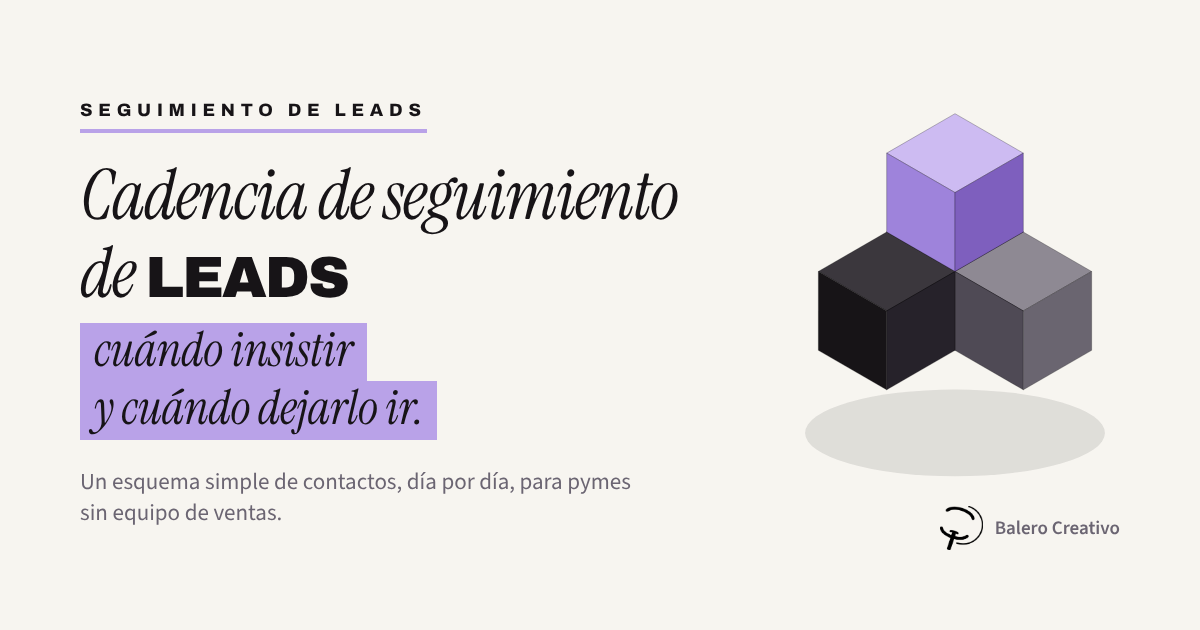
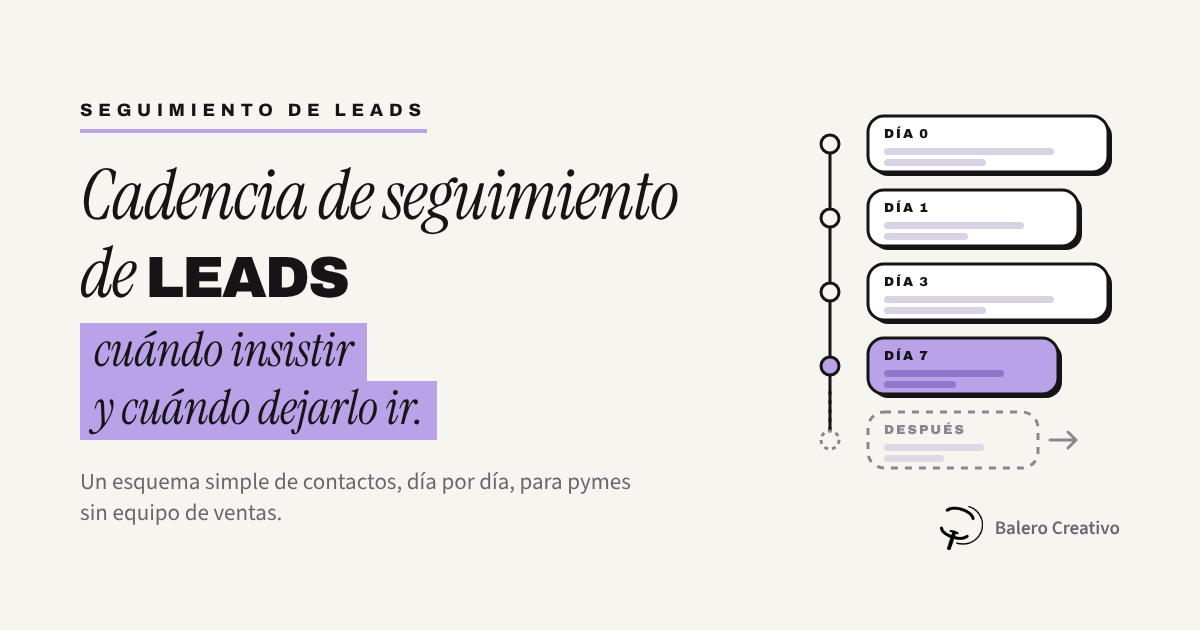
Replace cubes with message timeline in cadence header image
Claude-Session: https://claude.ai/code/session_01NTbbmrkatfc9dT5fY1rn6A

diff --git a/blog-images/leads-whatsapp-cadencia-destacada.html b/blog-images/leads-whatsapp-cadencia-destacada.html
@@ -37,37 +37,41 @@
     </h1>
     <p class="sub">Un esquema simple de contactos, día por día, para pymes sin equipo de ventas.</p>
   </div>
-  <svg id="blocks" viewBox="0 0 330 370"></svg>
+  <svg id="blocks" viewBox="0 0 330 370" xmlns="http://www.w3.org/2000/svg">
+<line x1="40" y1="34.0" x2="40" y2="330.0" stroke="#171417" stroke-width="3" stroke-linecap="round" stroke-dasharray="0"/>
+<circle cx="40" cy="34.0" r="9" fill="#F7F5F0" stroke="#171417" stroke-width="3"/>
+<rect x="82" y="10" width="240" height="56" rx="16" fill="#171417"/>
+<rect x="78" y="6" width="240" height="56" rx="16" fill="#fff" stroke="#171417" stroke-width="3"/>
+<text x="94" y="28" font-family="Archivo" font-weight="900" font-size="13" letter-spacing="2" fill="#171417">DÍA 0</text>
+<rect x="94" y="38" width="170" height="7" rx="3.5" fill="#D8D2E2"/>
+<rect x="94" y="49" width="102" height="7" rx="3.5" fill="#D8D2E2"/>
+<circle cx="40" cy="108.0" r="9" fill="#F7F5F0" stroke="#171417" stroke-width="3"/>
+<rect x="82" y="84" width="210" height="56" rx="16" fill="#171417"/>
+<rect x="78" y="80" width="210" height="56" rx="16" fill="#fff" stroke="#171417" stroke-width="3"/>
+<text x="94" y="102" font-family="Archivo" font-weight="900" font-size="13" letter-spacing="2" fill="#171417">DÍA 1</text>
+<rect x="94" y="112" width="140" height="7" rx="3.5" fill="#D8D2E2"/>
+<rect x="94" y="123" width="84" height="7" rx="3.5" fill="#D8D2E2"/>
+<circle cx="40" cy="182.0" r="9" fill="#F7F5F0" stroke="#171417" stroke-width="3"/>
+<rect x="82" y="158" width="240" height="56" rx="16" fill="#171417"/>
+<rect x="78" y="154" width="240" height="56" rx="16" fill="#fff" stroke="#171417" stroke-width="3"/>
+<text x="94" y="176" font-family="Archivo" font-weight="900" font-size="13" letter-spacing="2" fill="#171417">DÍA 3</text>
+<rect x="94" y="186" width="170" height="7" rx="3.5" fill="#D8D2E2"/>
+<rect x="94" y="197" width="102" height="7" rx="3.5" fill="#D8D2E2"/>
+<circle cx="40" cy="256.0" r="9" fill="#B9A2E8" stroke="#171417" stroke-width="3"/>
+<rect x="82" y="232" width="190" height="56" rx="16" fill="#171417"/>
+<rect x="78" y="228" width="190" height="56" rx="16" fill="#B9A2E8" stroke="#171417" stroke-width="3"/>
+<text x="94" y="250" font-family="Archivo" font-weight="900" font-size="13" letter-spacing="2" fill="#171417">DÍA 7</text>
+<rect x="94" y="260" width="120" height="7" rx="3.5" fill="#8F77CC"/>
+<rect x="94" y="271" width="72" height="7" rx="3.5" fill="#8F77CC"/>
+<line x1="40" y1="282" x2="40" y2="330.0" stroke="#171417" stroke-width="3" stroke-dasharray="2 7" stroke-linecap="round"/>
+<circle cx="40" cy="330.0" r="9" fill="#F7F5F0" stroke="#8C8693" stroke-width="3" stroke-dasharray="4 4"/>
+<rect x="78" y="302" width="170" height="56" rx="16" fill="none" stroke="#8C8693" stroke-width="3" stroke-dasharray="7 7"/>
+<text x="94" y="324" font-family="Archivo" font-weight="900" font-size="13" letter-spacing="2" fill="#8C8693">DESPUÉS</text>
+<rect x="94" y="334" width="100" height="7" rx="3.5" fill="#DDD8E3"/>
+<rect x="94" y="345" width="60" height="7" rx="3.5" fill="#DDD8E3"/>
+<path d="M260 330.0 h26 m-8 -8 l8 8 -8 8" fill="none" stroke="#8C8693" stroke-width="3" stroke-linecap="round" stroke-linejoin="round"/>
+</svg>
   <div class="brand"><img src="assets/balero-isotipo-negro.png" alt=""><span>Balero Creativo</span></div>
 </div>
-<script>
-(function(){
-  const S=86, NS='http://www.w3.org/2000/svg', svg=document.getElementById('blocks');
-  const pal={
-    dark:{t:'#3B373D',l:'#171417',r:'#26222A'},
-    gray:{t:'#8E8993',l:'#4F4A55',r:'#6A6570'},
-    acc :{t:'#CDBBF2',l:'#9E83DB',r:'#7E5FBE'}
-  };
-  // 4 cubos: 3 en la base/oscuros y uno en lavanda arriba
-  const cubes=[[0,0,0,'dark'],[1,0,0,'gray'],[0,1,0,'dark'],[0,0,1,'acc']];
-  const P=(i,j,k)=>[(i-j)*S*.866,(i+j)*S*.5-k*S];
-  const g=document.createElementNS(NS,'g'); svg.appendChild(g);
-  const poly=(pts,fill)=>{const p=document.createElementNS(NS,'polygon');p.setAttribute('points',pts.map(a=>a.join(',')).join(' '));p.setAttribute('fill',fill);p.setAttribute('stroke','rgba(0,0,0,.28)');p.setAttribute('stroke-width','1');g.appendChild(p)};
-  const sh=document.createElementNS(NS,'ellipse');g.appendChild(sh);
-  cubes.sort((a,b)=>(a[0]+a[1]+a[2])-(b[0]+b[1]+b[2]));
-  cubes.forEach(([i,j,k,t])=>{
-    const c=pal[t],T=P(i,j,k+1),a=[T[0],T[1]-S*.5],b=[T[0]+S*.866,T[1]],d=[T[0],T[1]+S*.5],e=[T[0]-S*.866,T[1]];
-    poly([a,b,d,e],c.t);poly([e,d,[d[0],d[1]+S],[e[0],e[1]+S]],c.l);poly([d,b,[b[0],b[1]+S],[d[0],d[1]+S]],c.r);
-  });
-  // sombra elíptica bajo la base
-  const cubesBox=g.getBBox();
-  const base=P(0,0,0);
-  sh.setAttribute('cx',(P(1,0,0)[0]+P(0,1,0)[0])/2+0); sh.setAttribute('cy',P(1,1,0)[1]-S*.5+S+4);
-  sh.setAttribute('rx',S*1.9); sh.setAttribute('ry',S*.55); sh.setAttribute('fill','rgba(23,20,23,.10)');
-  g.insertBefore(sh,g.firstChild);
-  const bb=g.getBBox(), pad=4, sc=Math.min(330/(bb.width+pad*2),370/(bb.height+pad*2));
-  g.setAttribute('transform',`translate(${(330-bb.width*sc)/2-bb.x*sc},${(370-bb.height*sc)/2-bb.y*sc}) scale(${sc})`);
-})();
-</script>
 </body>
 </html>
